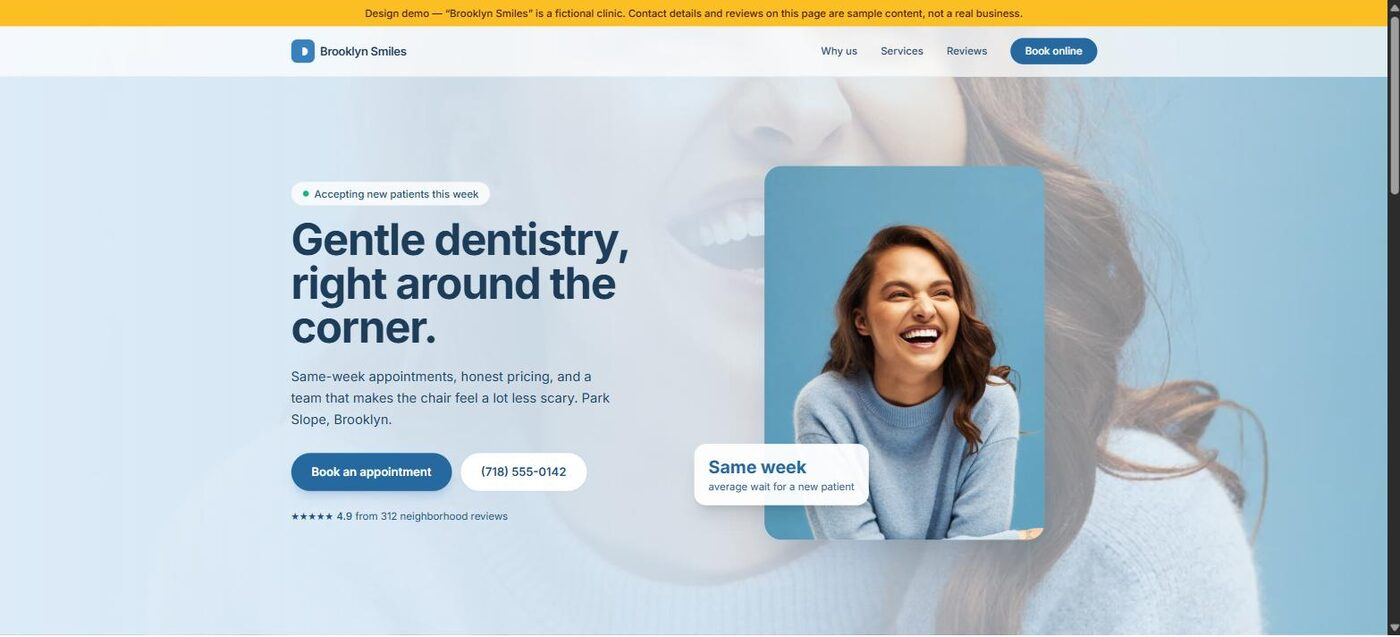
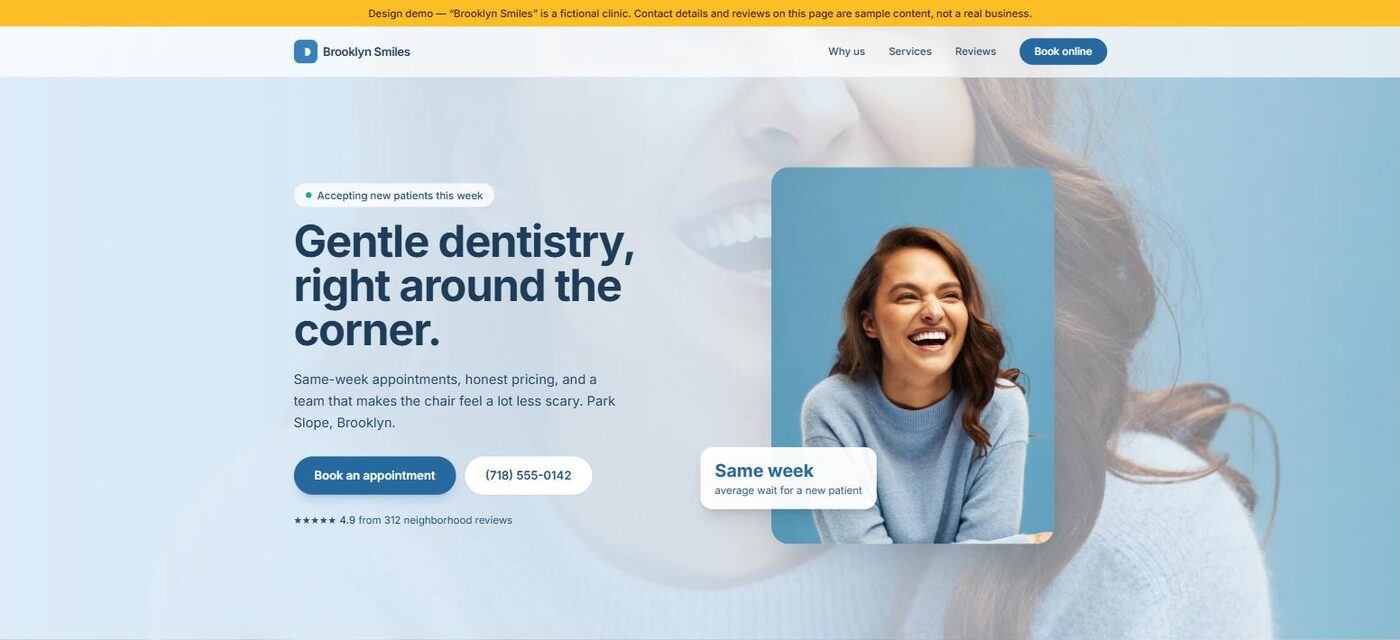
Fix the run-together demo links and trim the screenshot's scrollbar
Claude-Session: https://claude.ai/code/session_01VPGqY9z4FXti4ddUr7PG43

diff --git a/README.md b/README.md
@@ -30,8 +30,8 @@ about four minutes. **Click the image to open it.**
 
 [![The Brooklyn Smiles demo site: an amber banner declaring it a fictional clinic, a "Gentle dentistry, right around the corner" hero over a looping video, and a laughing patient on a calm blue background](preview.jpg)](https://az9713.github.io/ai-lead-gen-teardown/dental-demo/)
 
-> **GitHub Pages:** https://az9713.github.io/ai-lead-gen-teardown/dental-demo/
-> **Vercel (the URL in the drafts):** https://dental-demo-chi-rust.vercel.app
+- **GitHub Pages** — https://az9713.github.io/ai-lead-gen-teardown/dental-demo/
+- **Vercel**, the URL that appears in the drafts — https://dental-demo-chi-rust.vercel.app
 
 Both serve the same file. The amber banner across the top is deliberate and
 non-negotiable — see [the last section](#two-things-worth-knowing-before-you-copy-this).
